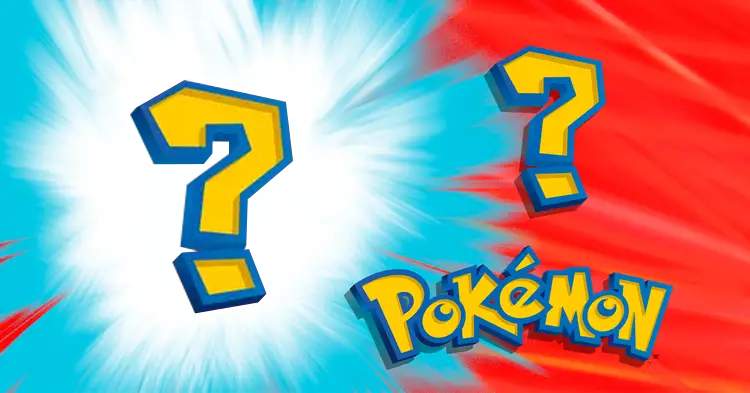
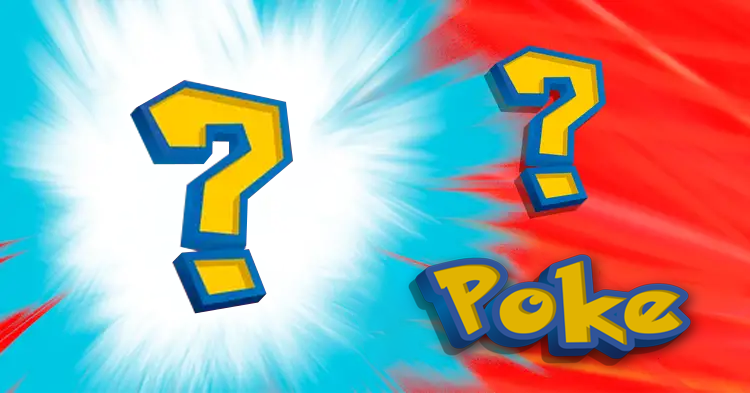
changing assets

Changed region(s): [[0.46, 0.6107, 0.9507, 0.9466]]

diff --git a/src/components/Header/Header.tsx b/src/components/Header/Header.tsx
@@ -3,7 +3,7 @@ import { NavLink } from "react-router-dom";
 import { BsList } from "react-icons/bs";
 
 //Assets
-import logoSvg from "../../assets/svg/Pokemon_logo.svg";
+import logo from "../../assets/images/Logo.png";
 
 //Contexts
 import { HeaderBgContext } from "../../contexts/HeaderBgContext";
@@ -49,7 +49,7 @@ const Header = () => {
             <header className={`${styles.header} ${headerBg}`}>
                 <h1 className={styles.logo}>
                     <NavLink to="/" onClick={closeNav}>
-                        <img src={logoSvg} alt="pokemon logo" />
+                        <img src={logo} alt="pokemon logo" />
                     </NavLink>
                 </h1>
                 <nav className={styles.nav} ref={navRef}>
